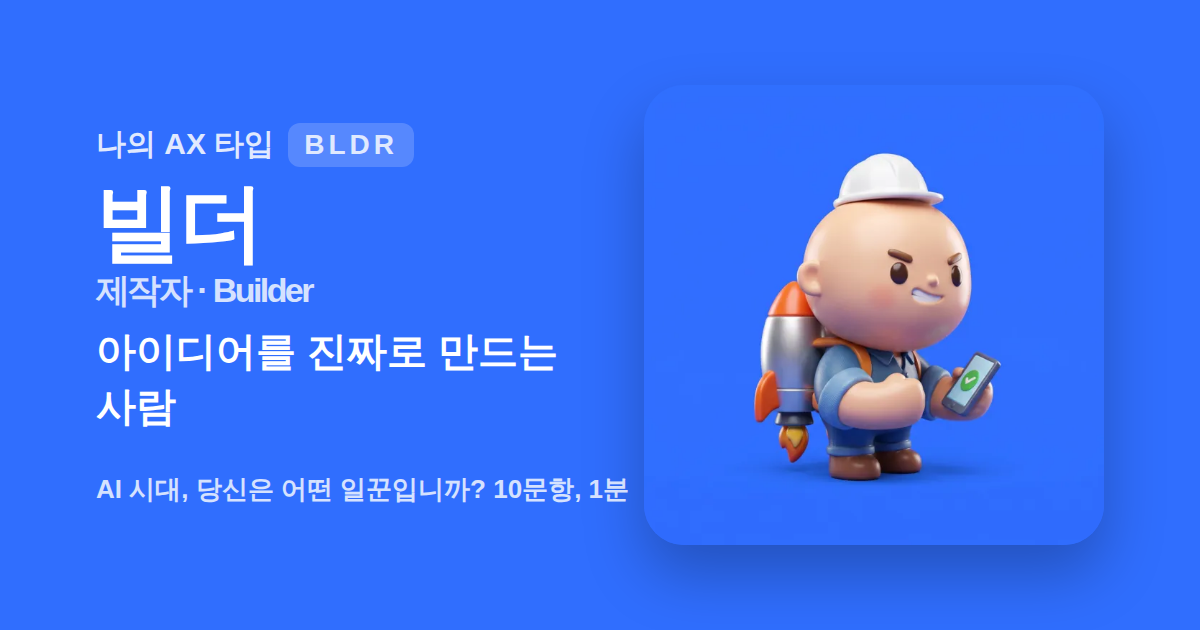
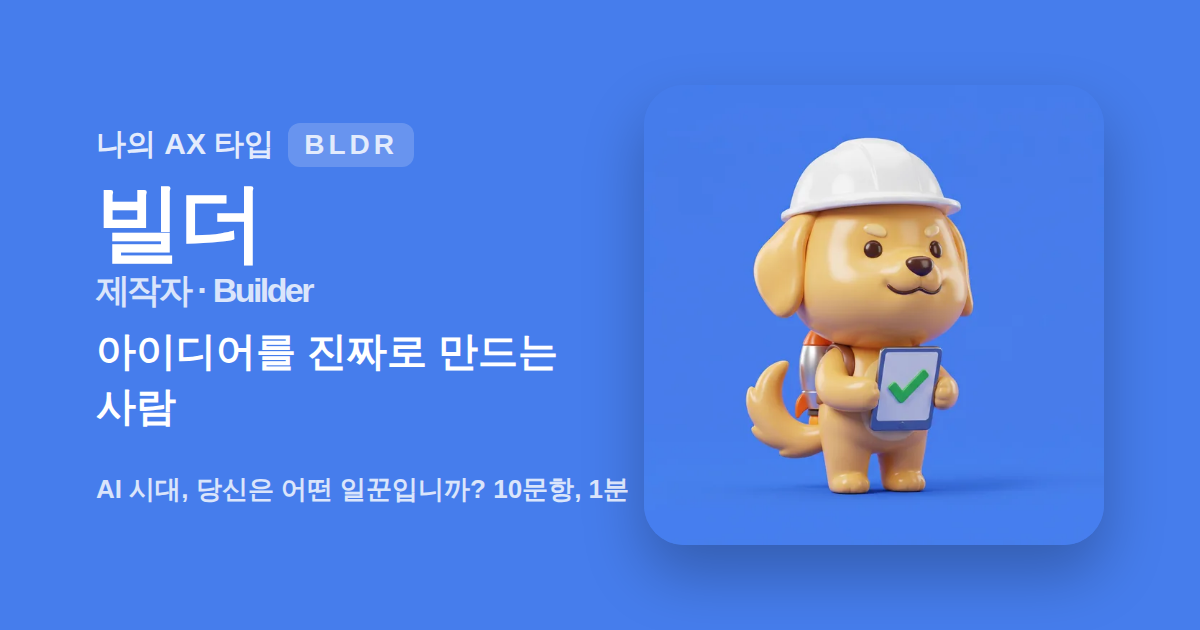
타입 캐릭터를 동물 피규어로 교체
- 고양이·강아지·토끼·곰·부엉이 5장 (프롬프트·동물 매핑은 findings.md)
- 타입 색을 새 이미지 배경색에 맞춤, sw.js 캐시 VERSION v2
- OG 이미지·r/ 재생성, 디자인 아트보드 이미지 갱신
- DESIGN·README 비주얼 설명을 동물로, 사람 피규어는 기각 표에 기록

Claude-Session: https://claude.ai/code/session_012pQtpcVuTUKzRw19cfW1pU

Changed region(s): [[0.5858, 0.2111, 0.8942, 0.8143], [0.5242, 0.754, 0.5858, 0.7841]]

diff --git a/data.js b/data.js
@@ -29,7 +29,7 @@ export const TYPES = [
     nick: '발명가',
     tags: ['아이디어뱅크', '데모중독', '일단만들어봄'],
     emoji: '💡',
-    color: '#DF950D',
+    color: '#D48C18',
     ink: '#1a1200',
     headline: '아이디어를 찍어내는 사람',
     tagline: '당신에게 가장 비싼 건 시간이 아니라, 시도하지 않은 아이디어입니다.',
@@ -53,7 +53,7 @@ export const TYPES = [
     nick: '제작자',
     tags: ['출시본능', '끝까지간다', '날짜로답함'],
     emoji: '🚀',
-    color: '#306EFE',
+    color: '#467DEC',
     ink: '#ffffff',
     headline: '아이디어를 진짜로 만드는 사람',
     tagline: '프로토타입과 제품 사이의 거리를 당신이 가장 빨리 지웁니다.',
@@ -77,7 +77,7 @@ export const TYPES = [
     nick: '편집자',
     tags: ['덜어내기장인', '삭제의미학', '단순할수록좋다'],
     emoji: '🧹',
-    color: '#1E994F',
+    color: '#1A924F',
     ink: '#ffffff',
     headline: '덜어내서 좋아지게 만드는 사람',
     tagline: '당신에게 최고의 결과물은 더한 것보다 뺀 것이 많은 결과물입니다.',
@@ -101,7 +101,7 @@ export const TYPES = [
     nick: '육성가',
     tags: ['지표덕후', '전환율사냥꾼', '사용자편'],
     emoji: '📈',
-    color: '#EE447C',
+    color: '#EF5A7F',
     ink: '#ffffff',
     headline: '만든 걸 사랑받게 만드는 사람',
     tagline: '출시는 끝이 아니라, 당신의 시작입니다.',
@@ -125,7 +125,7 @@ export const TYPES = [
     nick: '수호자',
     tags: ['무사고', '새벽알림담당', '신뢰는수작업'],
     emoji: '🛠',
-    color: '#715FF9',
+    color: '#735DEC',
     ink: '#ffffff',
     headline: '무너지지 않게 지키는 사람',
     tagline: '아무 일도 안 일어난 하루가, 당신이 가장 잘한 날입니다.',

diff --git a/r/prototyper/index.html b/r/prototyper/index.html
@@ -19,7 +19,7 @@
   <meta name="twitter:title" content="나의 AX 타입: PRTO 프로토타이퍼 · 발명가">
   <meta name="twitter:description" content="&quot;아이디어를 찍어내는 사람&quot; #아이디어뱅크 #데모중독 #일단만들어봄 · AI 시대, 당신은 어떤 일꾼입니까? 10문항, 1분.">
   <meta name="twitter:image" content="https://axtype.vercel.app/og/prototyper.png">
-  <meta name="theme-color" content="#DF950D">
+  <meta name="theme-color" content="#D48C18">
   <link rel="icon" href="../../icons/favicon.svg" type="image/svg+xml">
   <link rel="apple-touch-icon" href="../../icons/apple-touch-icon.png">
   <link rel="canonical" href="https://axtype.vercel.app/r/prototyper/">

diff --git a/r/sweeper/index.html b/r/sweeper/index.html
@@ -19,7 +19,7 @@
   <meta name="twitter:title" content="나의 AX 타입: SWPR 스위퍼 · 편집자">
   <meta name="twitter:description" content="&quot;덜어내서 좋아지게 만드는 사람&quot; #덜어내기장인 #삭제의미학 #단순할수록좋다 · AI 시대, 당신은 어떤 일꾼입니까? 10문항, 1분.">
   <meta name="twitter:image" content="https://axtype.vercel.app/og/sweeper.png">
-  <meta name="theme-color" content="#1E994F">
+  <meta name="theme-color" content="#1A924F">
   <link rel="icon" href="../../icons/favicon.svg" type="image/svg+xml">
   <link rel="apple-touch-icon" href="../../icons/apple-touch-icon.png">
   <link rel="canonical" href="https://axtype.vercel.app/r/sweeper/">

diff --git a/r/maintainer/index.html b/r/maintainer/index.html
@@ -19,7 +19,7 @@
   <meta name="twitter:title" content="나의 AX 타입: MNTR 메인테이너 · 수호자">
   <meta name="twitter:description" content="&quot;무너지지 않게 지키는 사람&quot; #무사고 #새벽알림담당 #신뢰는수작업 · AI 시대, 당신은 어떤 일꾼입니까? 10문항, 1분.">
   <meta name="twitter:image" content="https://axtype.vercel.app/og/maintainer.png">
-  <meta name="theme-color" content="#715FF9">
+  <meta name="theme-color" content="#735DEC">
   <link rel="icon" href="../../icons/favicon.svg" type="image/svg+xml">
   <link rel="apple-touch-icon" href="../../icons/apple-touch-icon.png">
   <link rel="canonical" href="https://axtype.vercel.app/r/maintainer/">

diff --git a/r/builder/index.html b/r/builder/index.html
@@ -19,7 +19,7 @@
   <meta name="twitter:title" content="나의 AX 타입: BLDR 빌더 · 제작자">
   <meta name="twitter:description" content="&quot;아이디어를 진짜로 만드는 사람&quot; #출시본능 #끝까지간다 #날짜로답함 · AI 시대, 당신은 어떤 일꾼입니까? 10문항, 1분.">
   <meta name="twitter:image" content="https://axtype.vercel.app/og/builder.png">
-  <meta name="theme-color" content="#306EFE">
+  <meta name="theme-color" content="#467DEC">
   <link rel="icon" href="../../icons/favicon.svg" type="image/svg+xml">
   <link rel="apple-touch-icon" href="../../icons/apple-touch-icon.png">
   <link rel="canonical" href="https://axtype.vercel.app/r/builder/">

diff --git a/r/grower/index.html b/r/grower/index.html
@@ -19,7 +19,7 @@
   <meta name="twitter:title" content="나의 AX 타입: GRWR 그로워 · 육성가">
   <meta name="twitter:description" content="&quot;만든 걸 사랑받게 만드는 사람&quot; #지표덕후 #전환율사냥꾼 #사용자편 · AI 시대, 당신은 어떤 일꾼입니까? 10문항, 1분.">
   <meta name="twitter:image" content="https://axtype.vercel.app/og/grower.png">
-  <meta name="theme-color" content="#EE447C">
+  <meta name="theme-color" content="#EF5A7F">
   <link rel="icon" href="../../icons/favicon.svg" type="image/svg+xml">
   <link rel="apple-touch-icon" href="../../icons/apple-touch-icon.png">
   <link rel="canonical" href="https://axtype.vercel.app/r/grower/">

diff --git a/sw.js b/sw.js
@@ -1,6 +1,6 @@
 // 앱 셸을 미리 캐시해 오프라인·재방문에서 즉시 뜨게 한다.
 // 파일을 추가하거나 바꾸면 VERSION 을 올린다. 옛 캐시는 activate 에서 지운다.
-const VERSION = 'axtype-v1';
+const VERSION = 'axtype-v2';
 const SHELL = [
   './',
   'index.html',

diff --git a/progress.md b/progress.md
@@ -124,6 +124,21 @@
 
 - `vercel.json`, `data.js`, `index.html`, `r/*`, `.github/workflows/ci.yml`, `design/ShareCard.dc.html`, 문서 4종
 
+## Session 7
+
+### Phase 9: 동물 피규어 ✅
+
+**작업 내역**:
+
+1. 같은 블라인드 박스 프롬프트 뼈대로 타입별 동물 5장 생성 (동물·소품 표는 `findings.md`). 첫 부엉이는 배경이 그라데이션이라 단색 지시를 붙여 재생성
+2. 샌드박스에서 640px WebP 로 축소·base64 로 받아 복원, 체크섬 5장 일치
+3. `data.js` 타입 색을 새 이미지 모서리 평균값으로, `sw.js` VERSION v2, `npm run build` 로 OG 재생성
+4. check·smoke 통과. DESIGN·README·findings 의 비주얼 설명을 동물로, 사람 피규어는 기각 표에
+
+**생성/수정 파일**:
+
+- `assets/*.webp`, `data.js`, `sw.js`, `og/*.png`, `r/*`, `docs/DESIGN.md`, `README.md`, `findings.md`, `tasks.md`, `progress.md`
+
 ## Test Results
 
 | Test | Input | Expected | Actual | Status |
@@ -144,6 +159,7 @@
 | 문항 어휘 중립화 후 | `npm run check` + 브라우저 재구동 | 균형 6/6, 분포 유지, 플로우 정상 | 통과 | ✅ |
 | MBTI 코드·PWA 적용 후 | 빌드·check·브라우저 재구동 | 공유 문구가 `PRTO-G` 로 시작, r/ 페이지 og·twitter 14줄, 아이콘 6종 | 통과 | ✅ |
 | 캐릭터 아트 적용 후 | 빌드·check·브라우저 재구동, 스크린샷 육안 | 카드·OG·저장 이미지에 캐릭터, 배경색 이어짐 | 통과 | ✅ |
+| 동물 피규어 교체 후 | 빌드·check·smoke, OG 육안 | 5장 체크섬 일치, 배경 단색, 카드와 색 이어짐 | 통과 | ✅ |
 
 ## Error Log
 
@@ -156,7 +172,7 @@
 
 | Question | Answer |
 |---|---|
-| 1. 현재 어느 단계인가? | Phase 5: Delivery — Vercel 에 배포됨, CI PR 열림, 실측은 사람 몫 |
+| 1. 현재 어느 단계인가? | Phase 5: Delivery — Vercel 에 배포됨, CI PR 과 동물 아트 PR 열림, 실측은 사람 몫 |
 | 2. 다음에 할 일은? | 25명 실측(첫 번째 못) → Threads·카카오톡에 `https://axtype.vercel.app` 붙여 미리보기 확인, 홈 화면 설치 확인 → PR 합치기 → 디자인 캔버스에서 다듬은 것을 코드로 반영 |
 | 3. 목표는? | Threads 에서 퍼지는 1분짜리 AX 타입 테스트 |
 | 4. 지금까지 배운 것? | `findings.md` Learnings |

diff --git a/README.md b/README.md
@@ -39,7 +39,7 @@ manifest.webmanifest, sw.js  홈 화면 설치와 오프라인용. 파일을 추
 icons/         favicon.svg 가 원본. PNG 들은 build 가 렌더한다. (생성물)
 app.js         화면 렌더링, 공유(Threads/X/복사), 결과 카드 이미지 저장.
 style.css
-assets/<type>.webp  타입별 3D 캐릭터 아트 640×640. 생성 프롬프트는 findings.md 에.
+assets/<type>.webp  타입별 3D 동물 피규어 아트 640×640 (고양이·강아지·토끼·곰·부엉이). 생성 프롬프트는 findings.md 에.
 r/<type>/      공유 링크가 가리키는 곳. OG 태그만 들고 본편으로 보낸다. (생성물)
 og/<type>.png  링크 미리보기 이미지 1200×630. (생성물)
 scripts/       build.mjs (생성), check.mjs (검증), smoke.mjs (브라우저 한 바퀴)
